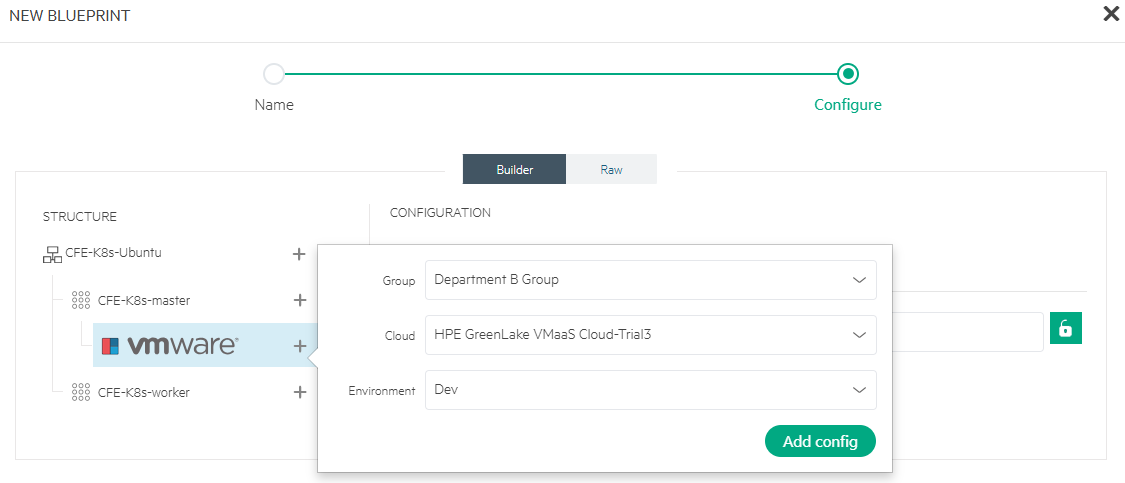
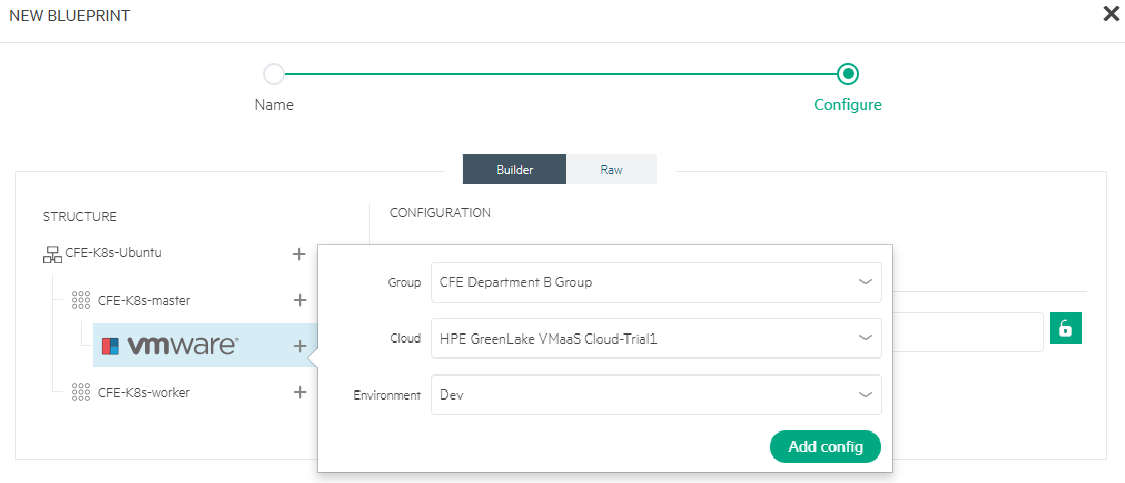
Update Blog “deploying-a-kubernetes-cluster-using-app-blueprint-with-ansible-integration-in-hpe-greenlake-for-private-cloud-enterprise”

Changed region(s): [[0.3422, 0.6522, 0.7778, 0.7764], [0.3111, 0.7764, 0.8089, 0.9627], [0.3422, 0.528, 0.7778, 0.6211]]

diff --git a/content/blog/deploying-a-kubernetes-cluster-using-app-blueprint-with-ansible-integration-in-hpe-greenlake-for-private-cloud-enterprise.md b/content/blog/deploying-a-kubernetes-cluster-using-app-blueprint-with-ansible-integration-in-hpe-greenlake-for-private-cloud-enterprise.md
@@ -30,7 +30,7 @@ Among a list of key Morpheus components, *Ansible Integration* and *Automation T
 Ensure that the following prerequisites are fulfilled:
 
 * Access to an HPE Private Cloud Enterprise workspace with the '*Private Cloud Tenant Owner'* role, allowing administrative actions in the ***Virtual Machines*** service. 
-* The group named *'Department B Group'* and the network *'Green-Net'* have already been created.
+* The group named *'CFE Department B Group'* and the network *'Green-Net'* have already been created.
 
 ## Create app blueprint
 
@@ -123,10 +123,10 @@ To create an app blueprint, you need to log in to HPE GreenLake Cloud and launch
 
 ## Deploy K8s cluster
 
-You can provision an K8s cluster using the created app blueprint 'CFE-K8s-Ubuntu' by taking up the following steps:
+Follow up below steps to provision an K8s cluster using the app blueprint *CFE-K8s-Ubuntu*:
 
-1. Navigate to **Provisioning** -> **Apps**.
-2. Click ***+Add*** and select the blueprint *CFE-K8S-UBUNTU*. Click ***Next***.
+1. Navigate to **Provisioning** -> **Apps**. Click ***+Add*** 
+2. Select blueprint *CFE-K8S-UBUNTU*. Click ***Next***.
 
 ![](/img/k8s-app-template.png)
 
@@ -146,24 +146,29 @@ You can provision an K8s cluster using the created app blueprint 'CFE-K8s-Ubuntu
 
 ![](/img/k8s-details.png)
 
-After a few minutes, the K8s cluster CFE-K8s has been provisioned with *'Running'* status.
+After a few minutes, the K8s cluster CFE-K8s is provisioned with *'Running'* status.
 
 ![](/img/k8s-cluster.png)
 
+7. Click the cluster *CFE-K8s*.
 
 ![](/img/k8s-cluster-details.png)
 
+The K8s cluster *CFE-K8s* is provisioned using the blueprint *CFE-K8s-Ubuntu* with 2 instances.
+
 ## Access K8s cluster
 
-Provision a Ubuntu VM instance and set it up as a jumphost by adding a DNAT rule to the router. 
+Provision an Ubuntu VM instance and set it up as a jumphost by adding a DNAT rule to the router. 
 
 ![](/img/k8s-jumpserver.png)
 
-Copy the kubeconfig file of the K8s cluster 'CFE-K8s' from its master node IP  '172.20.20.116' and save it as 'config'. Then the cluster 'CFE-K8s' can be accessed using 'kubectl' CLI with the kubeconfig file 'config'.
+Copy the kubeconfig file of the K8s cluster 'CFE-K8s' from its master node, IP as '172.20.20.116', and save it as 'config'. Then access the cluster 'CFE-K8s' by the command *'kubectl --kubeconfig=./config get nodes'.
 
 ![](/img/k8s-access.png)
 
 ## Delete K8s cluster
+
+Take the following steps to delete the K8s cluster when it's no longer needed.
 
 1. Navigate to **Provisioning**-> **Apps**.
 2. Select *CFE-K8s* and click ***DELETE***.
@@ -174,6 +179,8 @@ After few minutes, the cluster is deleted, along with all the provisioned VM ins
 
 ## Conclusion
 
-This blog post offers you a comprehensive guide on how to provision an K8s cluster using app blueprint of Morpheus automation features with Ansible integration.  
+This blog post provided a step-by-step walkthrough for provisioning an K8s cluster using an app blueprint integrated with Ansible in the HPE Private Cloud Enterprise environment. With support of the Morpheus Kubernetes Service (MKS) feature, HPE Private Cloud Enterprise now emposers users to deploy and manage K8s clusters with built-in automation and observability capabilities. 
+
+You can refer to the blog post [Provisioning MKS clusters in HPE Private Cloud Enterprise](https://developer.hpe.com/blog/provisioning-mks-clusters-in-hpe-greenlake-for-private-cloud-enterprise/) for provisioning MKS clusters using a list of predefined cluster layouts. Whether you prefer the flexibility of app blueprints or the structure of the cluster layouts, HPE Private Cloud Enterprise gives you the freedomto choose the approach that best fits your operational needs.
 
 Please keep coming back to the [HPE Developer Community blog](https://developer.hpe.com/blog/) to learn more about HPE Private Cloud for AI and get more ideas on how you can use it in your everyday operations.
